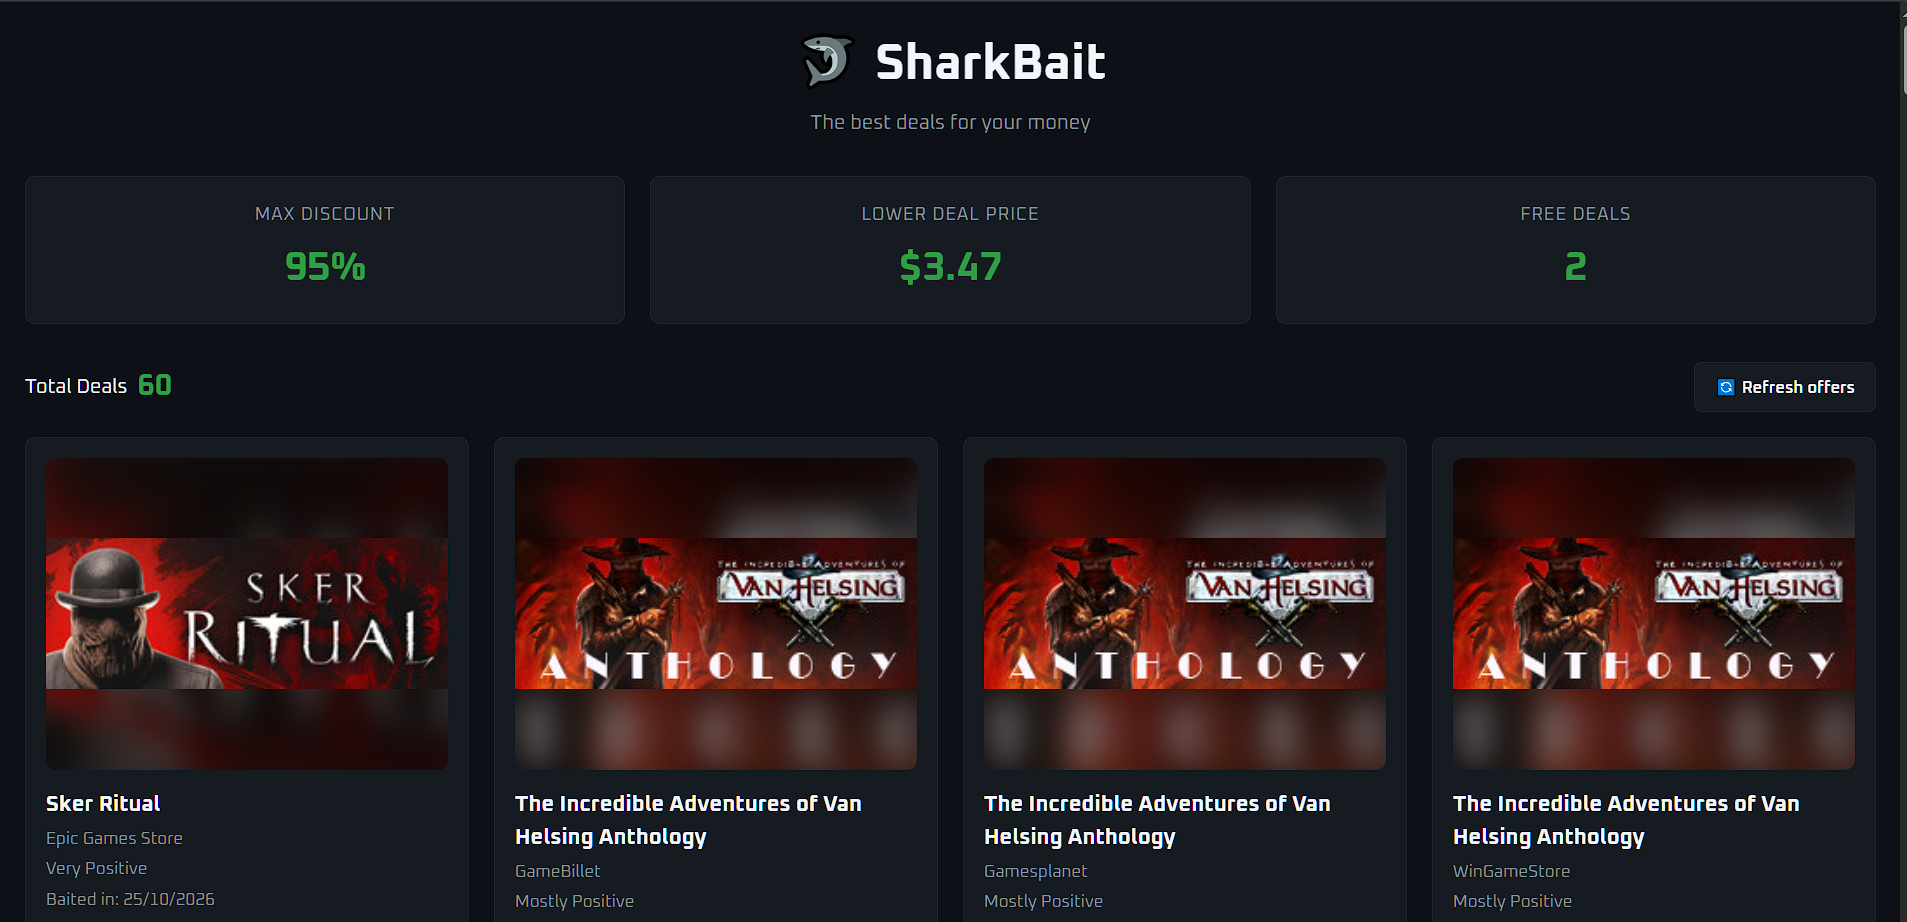
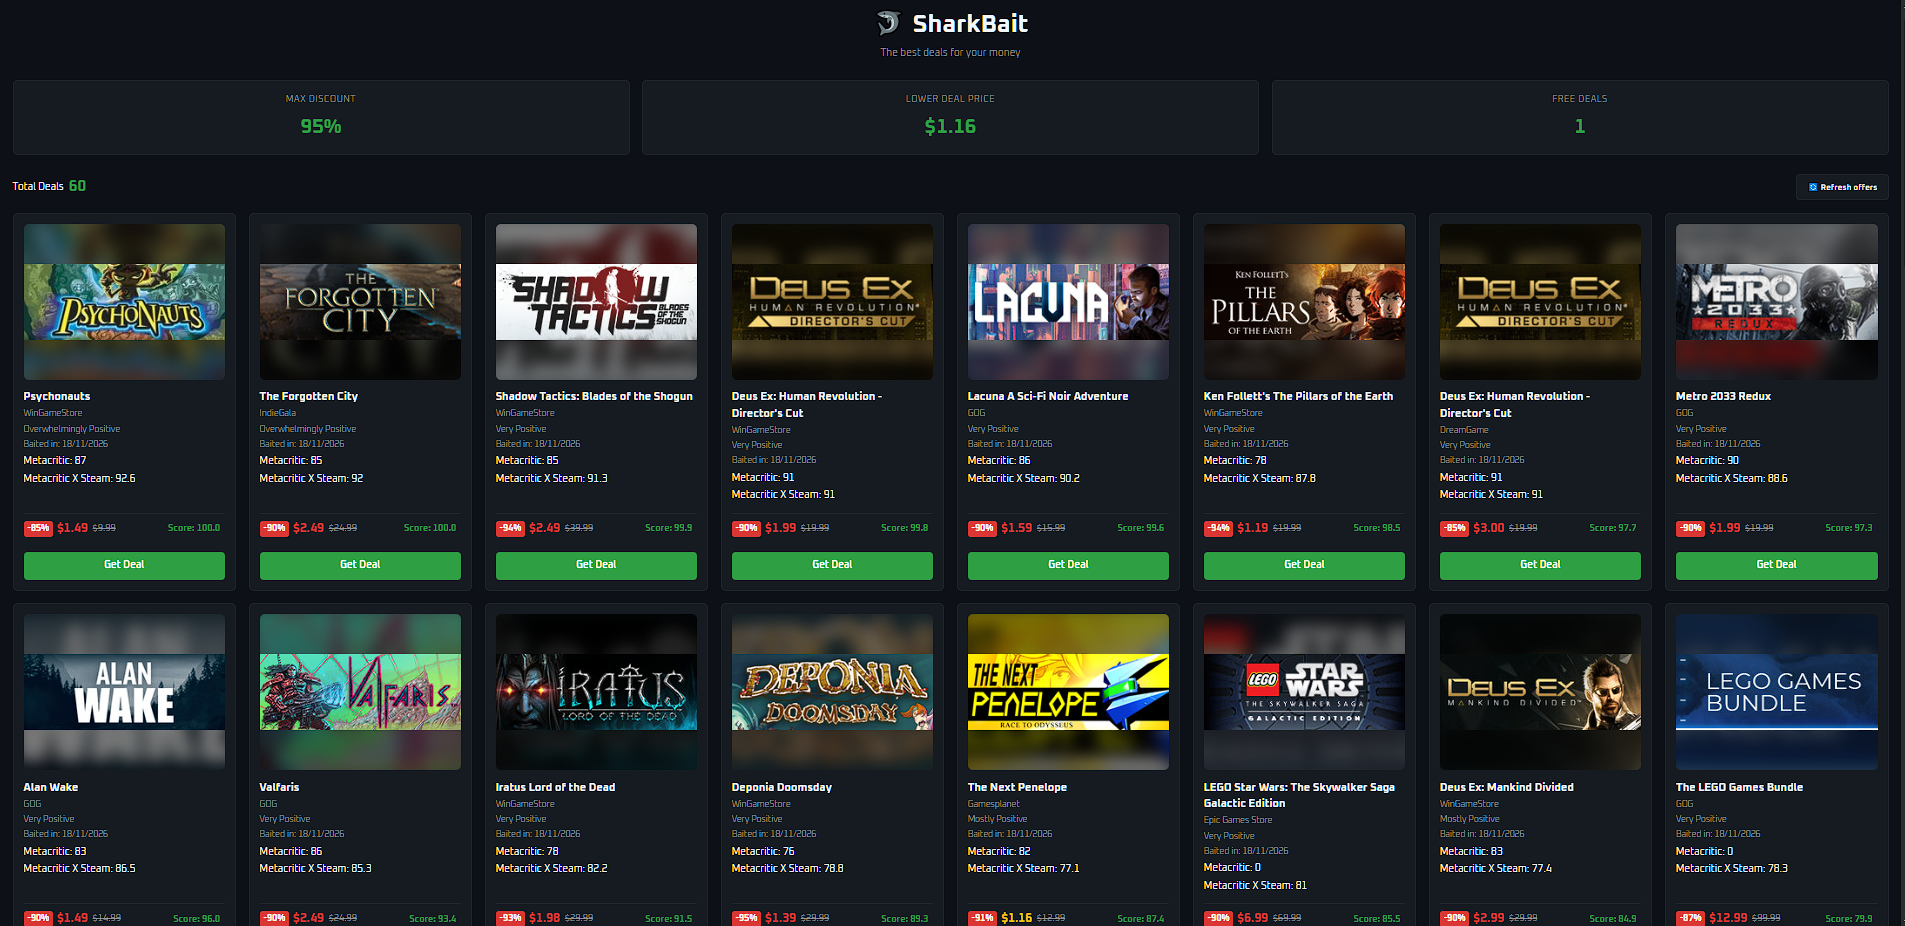
fix: some improvements on README overview

diff --git a/README.md b/README.md
@@ -1,12 +1,17 @@
 # **SHARK BAIT** 🦈 - A PIPELINE POWERED BY **CHEAPSHARK API** AND PYTHON
 
-### THIS IS AN UPGRADE FOR MY CS50P PROJECT. FIRSTLY IT WAS A SIMPLE SCRIPT PIPELINE PRODUCING A CSV SORTED FILE. NOW ITS A COMPLETE INTEGRATED DATA PIPELINE SERVICE, AS FOLLOWS
 
 🦈A Data Pipeline written in python that uses Cheapshark API offers to get, clean and show the best deals of PC games from multiple stores; store it on a database table and create a REST API containing such deals🦈
 
 🦈Also includes a static web interface to consume that API and generate a useful visual design🦈
 
+<p align="center">
+  <img src="assets/sharkbait_sqlviewer.png" width="48%" alt="DATABASE SHARK BAIT" />
+  &nbsp;
+  <img src="assets/sharkbait_staticview.png" width="48%" alt="STATIC SHARK BAIT" />
+</p>
 
+- THIS IS AN UPGRADE FOR MY CS50P PROJECT; FIRSTLY IT WAS A SIMPLE SCRIPT PIPELINE CREATING A CSV SORTED FILE. NOW ITS A COMPLETE PEER TO PEER DATA PIPELINE PROJECT (ABRANGING BACK, DATA AND FRONT-END)
 ---
 
 ## WHY THIS PROJECT?
@@ -84,7 +89,7 @@ SHARK BAIT was built with these libraries and techs
 * **Core:** `Python 3.x`
 * **Data Processing:** `Pandas` & `NumPy` (clean, transform and custom metrics calculation)
 * **Database & ORM:** `SQLite` & `SQLAlchemy` (relational persistence and Upsert/Rollback control)
-* **API Integration:** `Requests` (consume Cheapshark API)
+* **API Integration:** `Requests`, `FastAPI` & `Pydantic` (consume Cheapshark API, serves REST API and data validation)
 * **Testing:** `Pytest` & `Unittest.mock` (unit tests and error simulations)
 
 
@@ -137,8 +142,8 @@ pip install -r requirements.txt
 To execute this program run:
 
 ```bash 
-python project.py # on Windows
-python3 project.py # on Linux/macOS
+python sharkbait.py # on Windows
+python3 sharkbait.py # on Linux/macOS
 ```
 - This will create/load an `sharkbait.db` file with the game deals (use a database SQLite viewer to explore the table)
 
@@ -146,12 +151,12 @@ python3 project.py # on Linux/macOS
 
 
 ### GET A TEST
-To execute a test with the test_project.py file, using mocks, run:
+To execute a test with the test_sharkbait.py file, using mocks, run:
 
 ```bash Test
-pytest test_project.py -v #in the tests/ folder
+pytest test_sharkbait.py -v #in the tests/ folder
 #or
-pytest tests/test_project.py -v #from root project folder
+pytest tests/test_sharkbait.py -v #from root project folder
 ```
 
 ---
